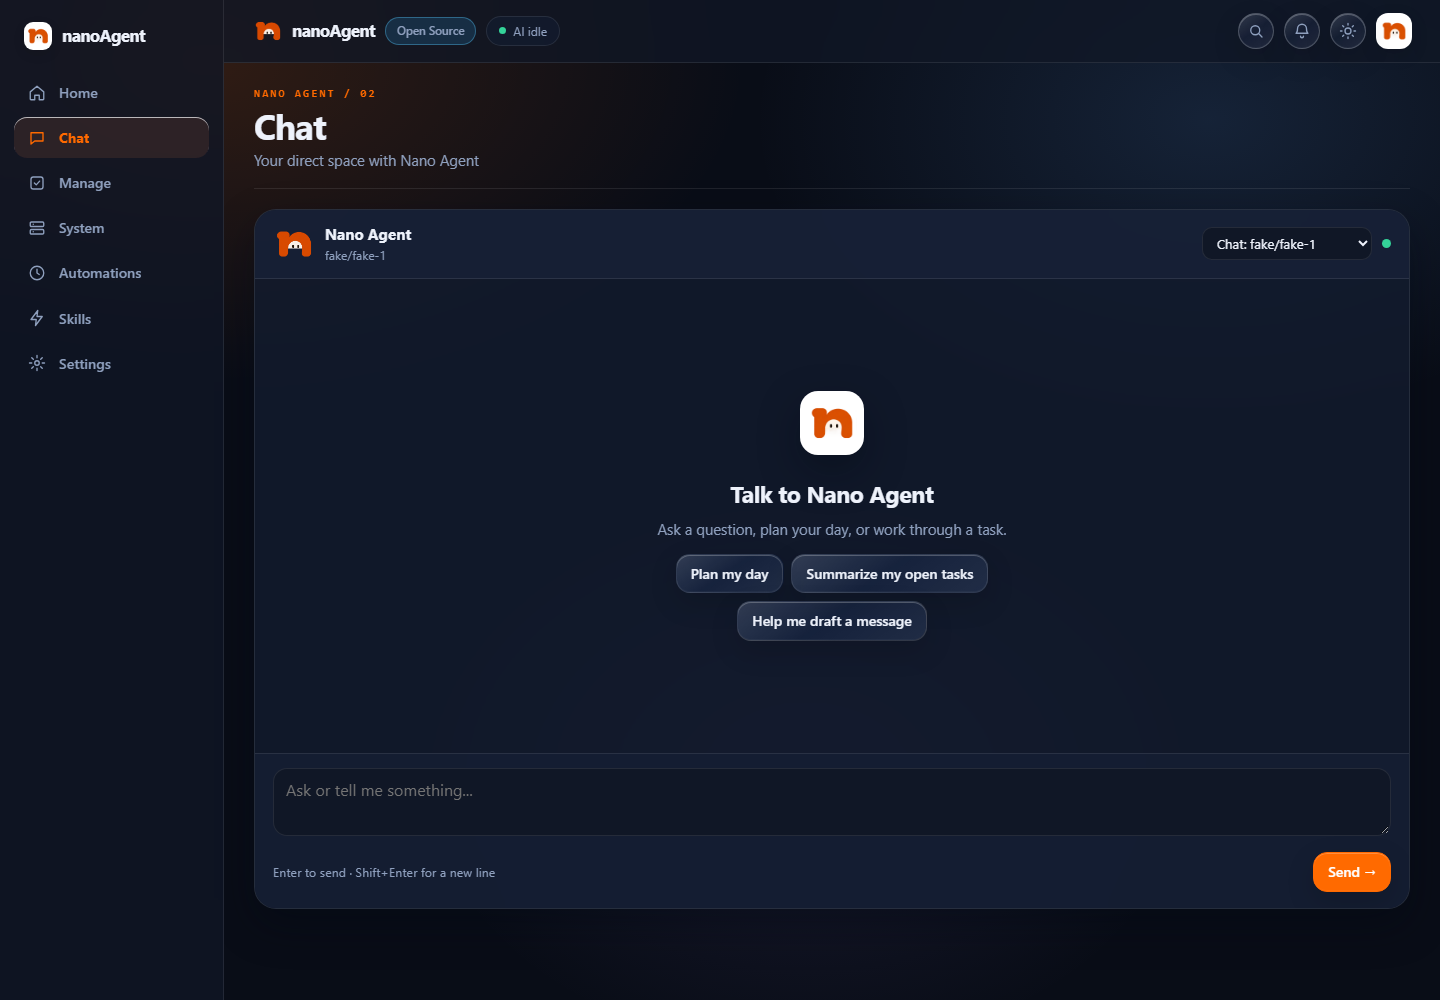
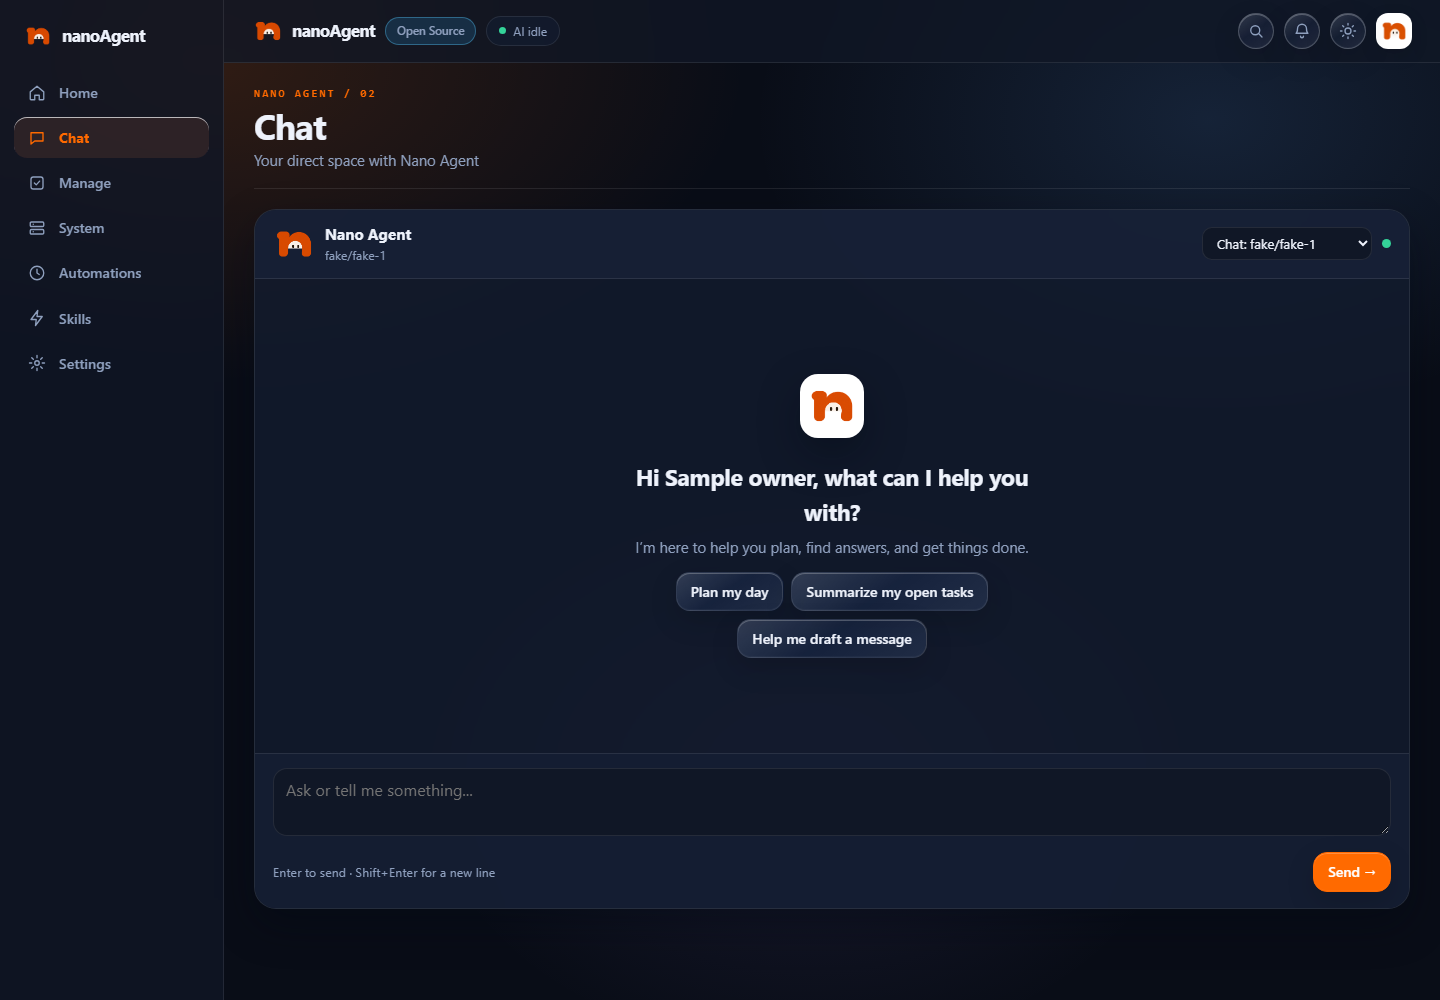
Match mascot system and greet users in chat

Changed region(s): [[0.4375, 0.372, 0.7188, 0.682], [0.0, 0.0, 0.0312, 0.062]]

diff --git a/src/nanoagent/gateway/static/console.js b/src/nanoagent/gateway/static/console.js
@@ -104,7 +104,7 @@ const HUBS = [
 const HUB_OF = { activity: "home", memory: "settings", learning: "settings", know: "settings", mind: "settings", work: "computer" };
 function drawTabs() {
   $("#tabs").replaceChildren(
-    h("div", { class: "nav-brand" }, h("img", { src: "/static/logo-icon.png", alt: "" }), h("span", { text: "nanoAgent" })),
+    h("a", { class: "nav-brand brand-lockup", href: "/console", "aria-label": "nano Agent home" }, h("img", { src: "/static/mascot-n.png", alt: "" }), h("span", { text: "nanoAgent" })),
     ...HUBS.map(([k, ic, lb]) =>
       h("button", { class: (HUB_OF[tab] || tab) === k ? "on" : "", onclick: () => go(k) },
         h("span", { class: "nav-ico" }, ico(ic)),
@@ -354,9 +354,9 @@ async function vChat() {
     ? ["ช่วยวางแผนงานวันนี้", "สรุปสิ่งที่ต้องทำ", "ช่วยร่างข้อความสั้นๆ"]
     : ["Plan my day", "Summarize my open tasks", "Help me draft a message"];
   if (!h1.messages.length) {
-    box.append(h("div", { class: "chat-empty" }, h("img", { src: "/static/logo-icon.png", alt: "" }),
-      h("h2", { text: lang === "th" ? "คุยกับ Nano Agent" : "Talk to Nano Agent" }),
-      h("p", { text: lang === "th" ? "ถาม วางแผน หรือให้ช่วยจัดการงานของคุณ" : "Ask a question, plan your day, or work through a task." }),
+    box.append(h("div", { class: "chat-empty" }, h("img", { src: "/static/mascot-n.png", alt: "" }),
+      h("h2", { text: lang === "th" ? "สวัสดี ยินดีที่ได้คุยกัน" : `Hi${ME.owner_name ? ` ${ME.owner_name}` : ""}, what can I help you with?` }),
+      h("p", { text: lang === "th" ? "ฉันพร้อมช่วยวางแผน ค้นหาคำตอบ และจัดการงานของคุณ" : "I’m here to help you plan, find answers, and get things done." }),
       h("div", { class: "jv-quick-prompts" },
         ...starters.map(s => h("button", { onclick: () => { inp.value = s; inp.focus(); }, text: s })))));
   }

diff --git a/src/nanoagent/gateway/static/dashboard.css b/src/nanoagent/gateway/static/dashboard.css
@@ -259,10 +259,7 @@ main#view {
   .nav-brand img {
     width: 28px;
     height: 28px;
-    border-radius: 9px;
-    background: #ffffff;
-    padding: 2px;
-    box-shadow: 0 4px 12px rgba(0, 0, 0, 0.10);
+    object-fit: contain;
   }
 
   nav#tabs button {
